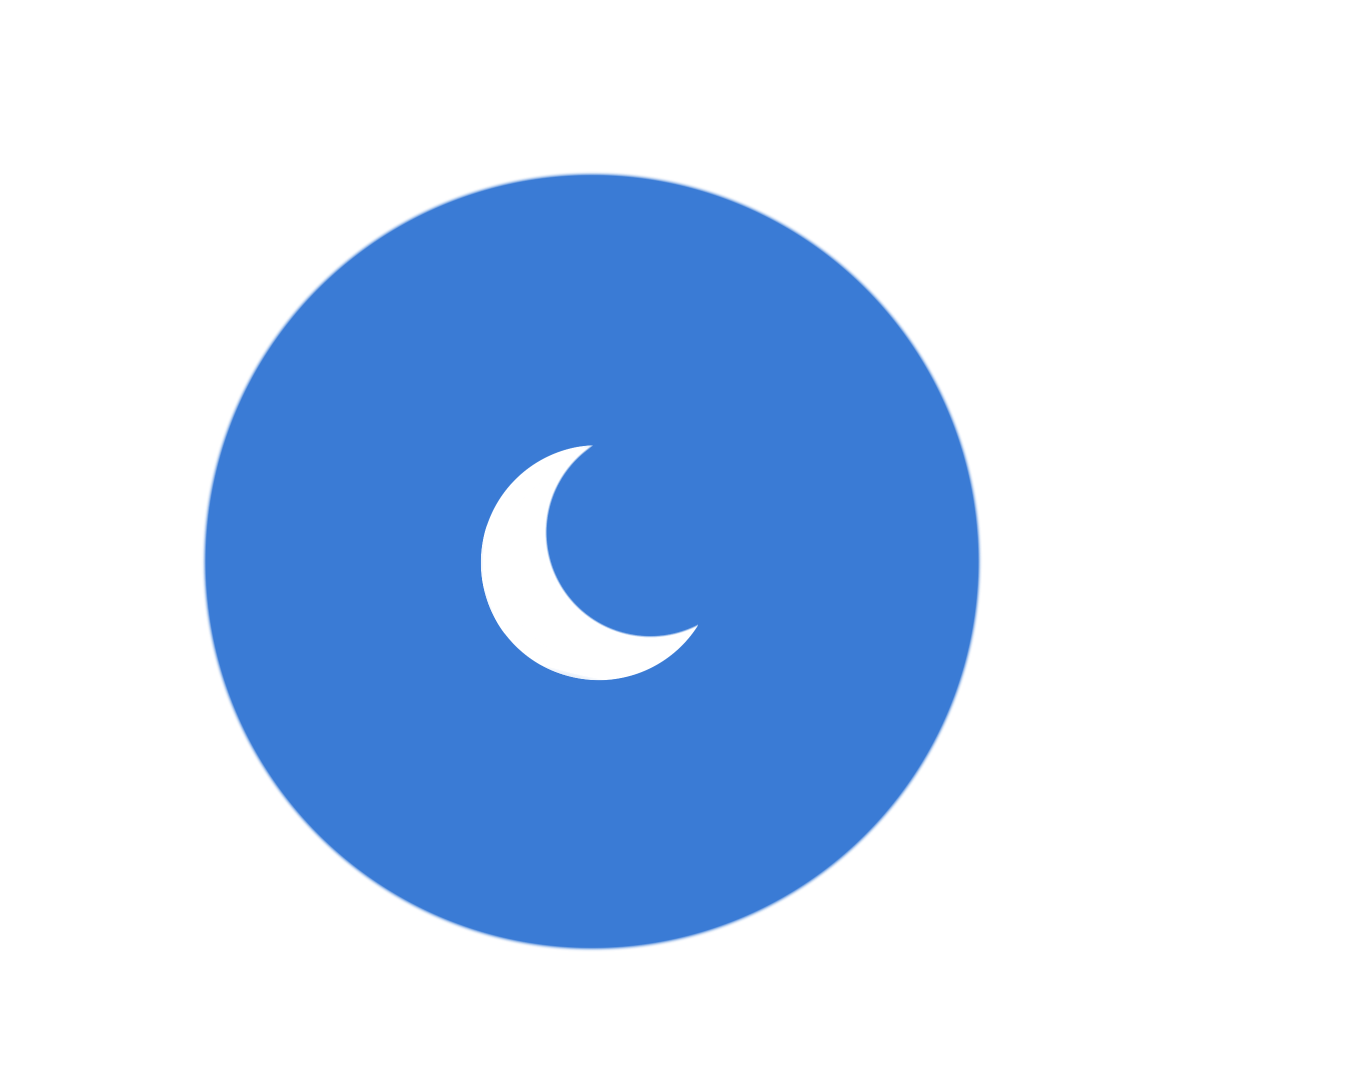
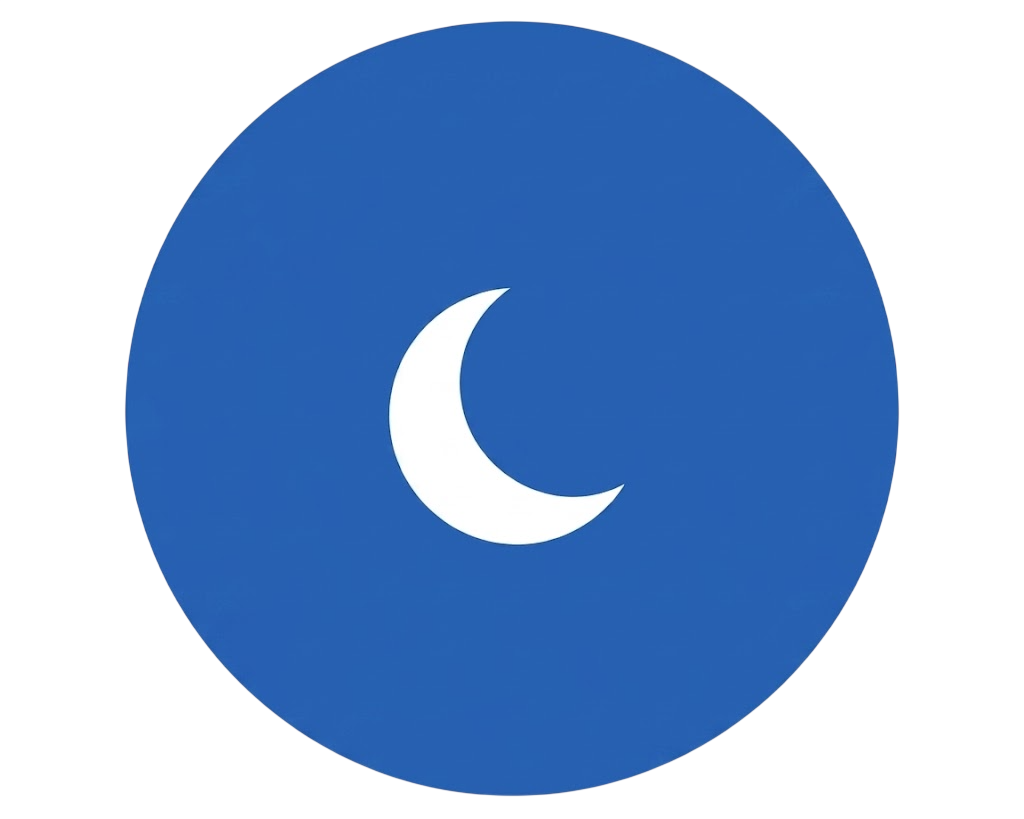
Fix moon.PNG color. Edit about.html text

diff --git a/about.html b/about.html
@@ -4,7 +4,7 @@
 <head>
     <meta charset="UTF-8">
     <meta name="viewport" content="width=device-width, initial-scale=1.0">
-    <title>Portfolio-2025114007-About</title>
+    <title>Portfolio-About-Yashaswi</title>
     <link rel="stylesheet" href="styles.css">
     <!-- linking the css stylesheet -->
     <link rel="stylesheet"
@@ -53,19 +53,15 @@
                 </div>
                 <div class="stuff_about"><span class="Contact">About Me</span>
                     <p class="about_me">Hello! I'm Yashaswi Priya. I am a first year Dual Degree student studying
-                        Computer Science at IIIT Hyderabad. I wanted to get into engineering, less due to a love for
-                        coding and more so for my love of mathematics. More so than the coding aspect, I like getting
-                        into the 'saar' of a question, figuring out what connection can be made between seemingly
-                        unrelated entities and how mathematical models can be implemented for the same. I opted for CLD
-                        as my top preference, because I was simply fascinated by what they were doing here at IIITH in
-                        the field of computational linguistics. I remember researching about the IIITH labs and always
-                        circling back to how cool LTRC was. I spent most of my vacation reading articles and watching
-                        videos to learn more about linguistics and cl, as I had very
-                        little prior knowledge of the same. And now that I'm here, I am really glad I chose this as my
-                        course.
-                        I'm a classically trained Bharatnatyam dancer, which has taught me discipline and perseverance.
+                        Computer Science and Computational Linguistics at IIIT Hyderabad. I decided to study computer science, not just
+                        for the coding and problem solving aspect, but also due to my love for mathematics. I opted for CLD (Btech in Computer Science and Ms in Computational Linguistics)
+                        as my top preference, because I was fascinated by what IIITH was achieving in
+                        the field of speech processing. 
+                        I'm a classically trained Bharatnatyam dancer, and the experience has taught me discipline and perseverance.
                         I enjoy reading books (mostly modern-classics or crime thrillers) and painting in my free time.
-                        I am a huge animal lover and absolutely adore dogs, especially the campus canines.</p>
+                        I am a huge animal lover and absolutely adore dogs, especially the campus canines.
+                        I work actively in the Design Teams of different clubs (Felicity(the college fest), The Dance Crew, The Gaming Club, Cyclorama and The Art Society) and am an active member of the Campus Canine-Management Cell.
+                </p>
                 </div>
             </div>
             <br><br><br>
@@ -83,7 +79,7 @@
                     <div class="pointer"></div>
                     <div class="details" aria-label="Bharatnatyam, Tennis and Painting">
                         2012
-                        <p>Started learning Bharatnatyam and Tennis. Found my love for painting.</p>
+                        <p>Started learning Bharatnatyam and Tennis. Found my love for Fine Arts and Reading.</p>
                     </div>
                 </div>
                 <!-- <div class="event">
@@ -97,7 +93,7 @@
                     <div class="pointer"></div>
                     <div class="details" aria-label="10th Boards">
                         2023
-                        <p>Received 97.8% in 10th Boards from Podar International School, Powai.</p>
+                        <p>97.8% in 10th Boards. Developed a passion for History and Archaeology.</p>
                     </div>
                 </div>
 
@@ -105,7 +101,7 @@
                     <div class="pointer"></div>
                     <div class="details" aria-label="Cleared JEE">
                         2025
-                        <p>Rank: 8k JEE Mains and 13k JEE Advance. An end to the rat race of the JEE prep.</p>
+                        <p>Rank: 8k JEE Mains (99.475 percentile) and 13k JEE Advance. 95.6% in 12th Boards.</p>
                     </div>
                 </div>
 
@@ -113,14 +109,16 @@
                     <div class="pointer"></div>
                     <div class="details" aria-label="Cleared UGEE">
                         2025
-                        <p>24 rank in UGEE. CLD at IIITH.</p>
+                        <p style="white-space: pre-wrap;">Rank: 24 UGEE.
+CLD at IIITH. 
+9.72 SGPA in Sem1</p>
                     </div>
                 </div>
                 <div class="event" >
                     <div class="pointer"></div>
                     <div class="details" aria-label="Sem 1">
-                        2025
-                        <p>Sem 1 finally over, and a 9.72 SGPA. First experience of living alone.</p>
+                        2026
+                        <p>9.32 CGPA at IIITH. Using college as an opportunity to diversify my skillset, particularly in Design.</p>
                     </div>
                 </div>
             </div>

diff --git a/styles.css b/styles.css
@@ -779,9 +779,9 @@ button.submit{
     font-family: var(--font_content);
     /* margin-top: 5rem; */
     color: var(--text);
-    font-weight: 200;
-    font-size: 2rem;
-    line-height: 3.5rem;
+    font-weight: 300;
+    font-size: 1.7rem;
+    line-height: 3.4rem;
     flex-direction: column;
     display: flex;
 }
@@ -810,6 +810,7 @@ button.submit{
     width: clamp(15rem,16vw,22rem);
     height: clamp(15rem,16vw,22rem);
     padding: 1.5rem;
+    padding-top: 2rem;
     border: 2px solid var(--main);
     cursor: pointer;
     transition: background var(--transition), color var(--transition);
@@ -823,11 +824,13 @@ button.submit{
 .details p{
     font-family: var(--font_content);
     color: var(--text);
-    font-size: clamp(1.2rem,1.3vw,1.5rem);
-    margin-top: 1.5rem;
+    font-size: clamp(1.2rem,1.2vw,1.5rem);
+    margin-top: 1.8rem;
     line-height: 2rem;
     font-weight: 400;
 }
+
+
 
 .event:hover .details{
     background: var(--main);

diff --git a/contact.html b/contact.html
@@ -4,7 +4,7 @@
 <head>
     <meta charset="UTF-8">
     <meta name="viewport" content="width=device-width, initial-scale=1.0">
-    <title>Portfolio-[phone redacted]-Contact</title>
+    <title>Portfolio-Contact-Yashaswi</title>
     <link rel="stylesheet" href="styles.css">
     <!-- linking the css stylesheet -->
     <link rel="stylesheet" href="https://fonts.googleapis.com/css2?family=Caveat:wght@400;600&family=Pacifico&family=Google+Sans+Flex:wght@100..900&display=swap">

diff --git a/home.html b/home.html
@@ -4,7 +4,7 @@
 <head>
     <meta charset="UTF-8">
     <meta name="viewport" content="width=device-width, initial-scale=1.0">
-    <title>Portfolio-2025114007-Home</title>
+    <title>Portfolio-Home-Yashaswi</title>
     <link rel="stylesheet" href="styles.css">
     <!-- linking the css stylesheet -->
     <link rel="stylesheet" href="https://fonts.googleapis.com/css2?family=Caveat:wght@400;600&family=Pacifico&family=Google+Sans+Flex:wght@100..900&display=swap">

diff --git a/index.html b/index.html
@@ -4,7 +4,7 @@
 <head>
     <meta charset="UTF-8">
     <meta name="viewport" content="width=device-width, initial-scale=1.0">
-    <title>Portfolio-2025114007-Home</title>
+    <title>Portfolio-Home-Yashaswi</title>
     <link rel="stylesheet" href="styles.css">
     <!-- linking the css stylesheet -->
     <link rel="stylesheet" href="https://fonts.googleapis.com/css2?family=Caveat:wght@400;600&family=Pacifico&family=Google+Sans+Flex:wght@100..900&display=swap">

diff --git a/projects.html b/projects.html
@@ -4,7 +4,7 @@
 <head>
     <meta charset="UTF-8">
     <meta name="viewport" content="width=device-width, initial-scale=1.0">
-    <title>Portfolio-2025114007-Project</title>
+    <title>Portfolio-Project-Yashaswi</title>
     <link rel="stylesheet" href="styles.css">
     <!-- linking the css stylesheet -->
     <link rel="stylesheet" href="https://fonts.googleapis.com/css2?family=Caveat:wght@400;600&family=Pacifico&family=Google+Sans+Flex:wght@100..900&display=swap">